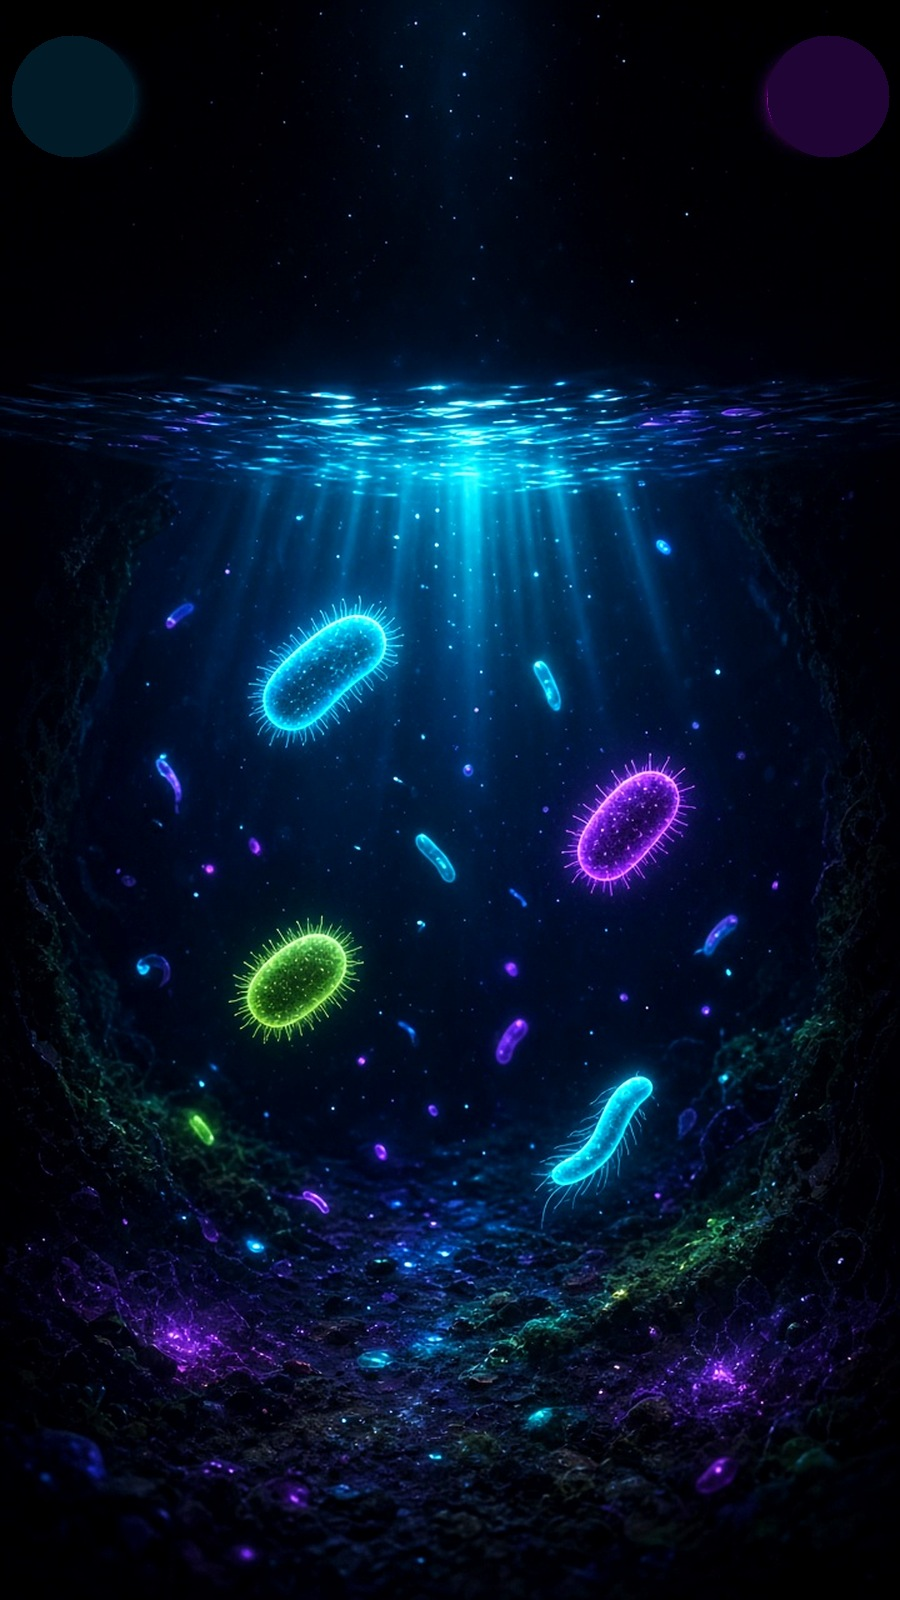
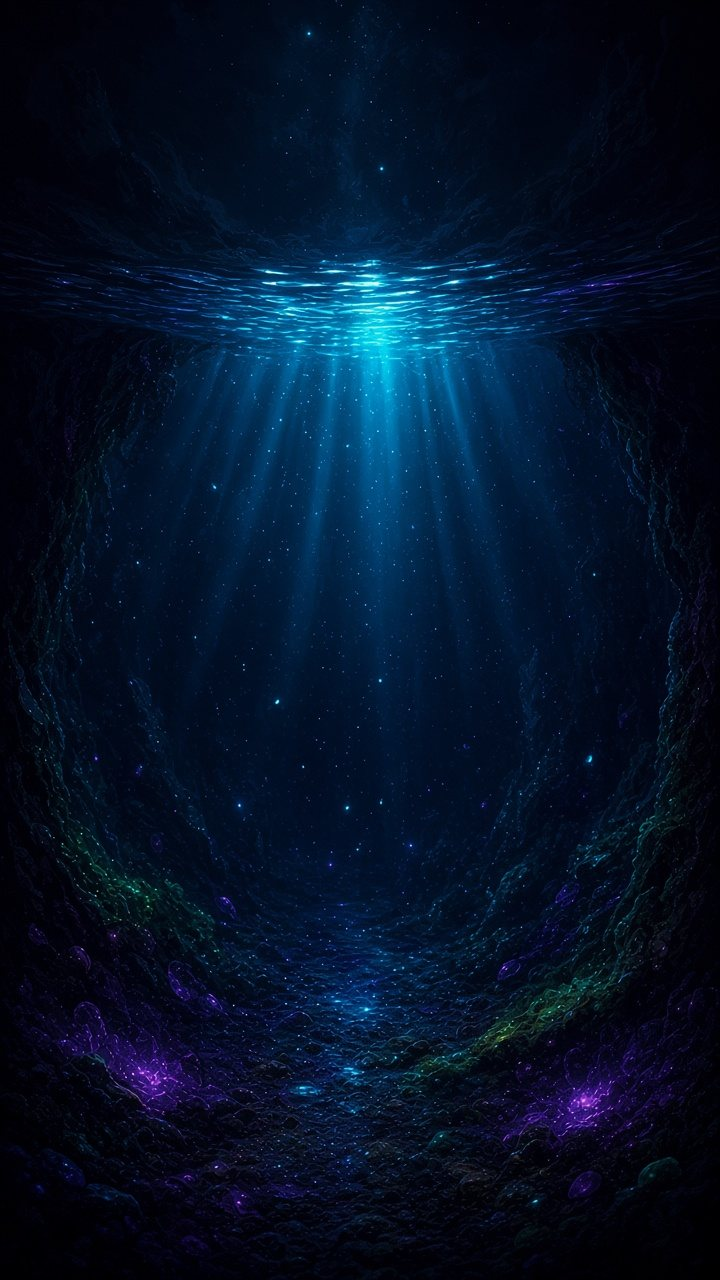
neon-bio v5: clean bg, procedural species creatures, clamped parallax

diff --git a/.04-Src/js/theme_neon_draw.js b/.04-Src/js/theme_neon_draw.js
@@ -1,4 +1,4 @@
-/* theme_neon_draw.js — neon-bio organisms: species PNG + contour glow. ≤500L */
+/* theme_neon_draw.js — neon-bio organisms: procedural body: glow fill, contour, cilia/flagella, speckles. ≤500L */
 (function (w) {
   "use strict";
   var CACHE = {};
@@ -51,119 +51,110 @@
   function neonDrawSz(sz) {
     /* ~2x prior — concept shows 3–5 large neon organisms */
     if (w.demoMode) return Math.max(28, Math.min(52, (sz || 4) * 8));
-    return Math.max(14, Math.min(52, (sz || 4) * 5.8));
+    return Math.max(5, Math.min(40, (sz || 4) * 3.4));
+  }
+  /* shape -> body: rx,ry (rel. to s), kind: cil=cilia fringe, fl=flagella, sp=spiral, dip=pair, ph=phage */
+  function bodyOf(shape) {
+    var m = {
+      rod:[1.15,0.42,"fl"], bacillus:[1.15,0.42,"fl"], clubrod:[1.1,0.45,"fl"], trichormus:[1.3,0.32,"fl"], filament:[1.35,0.28,"fl"],
+      rodtococcus:[0.9,0.5,"fl"], comma:[1.0,0.38,"sp"], vibrio:[1.0,0.38,"sp"], spiral:[1.2,0.3,"sp"], spirillum:[1.2,0.3,"sp"],
+      slipper:[1.1,0.55,"cil"], hypotrich:[1.0,0.6,"cil"], oval:[0.95,0.6,"cil"], rotifer:[0.8,0.55,"cil"], bell:[0.75,0.7,"cil"],
+      flatworm:[1.2,0.45,"cil"], apicomplexa:[1.0,0.45,"fl"], diplococci:[0.42,0.42,"dip"], phage:[0.45,0.38,"ph"],
+      coccus:[0.7,0.7,"cil"], circle:[0.72,0.72,"cil"], cluster:[0.75,0.7,"cil"], colony:[0.8,0.75,"cil"], chain:[1.2,0.35,"fl"],
+      archaea:[0.8,0.6,"fl"], mollicutes:[0.7,0.6,"cil"], irregular:[0.8,0.65,"cil"]
+    };
+    return m[shape] || [0.95, 0.58, "cil"];
+  }
+  function rgba(hex, a) {
+    var h = String(hex).replace("#", ""); if (h.length === 3) h = h[0]+h[0]+h[1]+h[1]+h[2]+h[2];
+    var n = parseInt(h, 16) || 0xffffff; return "rgba(" + (n >> 16 & 255) + "," + (n >> 8 & 255) + "," + (n & 255) + "," + a + ")";
   }
   function bake(shape, color, px) {
-    var key = shape + "|" + color + "|" + px + "|v4";
+    var key = shape + "|" + color + "|" + px + "|v5";
     if (CACHE[key]) return CACHE[key];
     var c = document.createElement("canvas");
     c.width = px; c.height = px;
     var g = c.getContext("2d");
-    var cx = px / 2, cy = px / 2, s = px * 0.28;
-    function faintFill(pathFn) {
-      g.save();
-      g.globalAlpha = 0.28;
-      g.fillStyle = color;
-      g.beginPath(); pathFn(); g.fill();
-      g.restore();
+    var cx = px / 2, cy = px / 2, s = px * 0.26;
+    var b = bodyOf(shape), rx = s * b[0], ry = s * b[1], kind = b[2];
+    var seed = 0; for (var q = 0; q < shape.length; q++) seed = (seed * 31 + shape.charCodeAt(q)) | 0;
+    function rnd() { seed = (seed * 1103515245 + 12345) & 0x7fffffff; return seed / 0x7fffffff; }
+    function bodyPath() {
+      if (kind === "dip") { g.arc(cx - rx * 0.95, cy, rx, 0, 6.2832); g.moveTo(cx + rx * 1.95, cy); g.arc(cx + rx * 0.95, cy, rx, 0, 6.2832); return; }
+      if (kind === "sp") {
+        for (var t = 0; t <= 1.0001; t += 0.04) { var x = cx + (t - 0.5) * rx * 2, y = cy + Math.sin(t * 9.42) * ry * 0.9 - ry * 0.45; t === 0 ? g.moveTo(x, y) : g.lineTo(x, y); }
+        for (var t2 = 1; t2 >= -0.0001; t2 -= 0.04) { g.lineTo(cx + (t2 - 0.5) * rx * 2, cy + Math.sin(t2 * 9.42) * ry * 0.9 + ry * 0.45); }
+        g.closePath(); return;
+      }
+      if (kind === "ph") { g.ellipse(cx, cy - s * 0.4, rx, ry, 0, 0, 6.2832); return; }
+      g.ellipse(cx, cy, rx, ry, 0, 0, 6.2832);
     }
-    function strokeContour(pathFn, lw) {
-      g.save();
-      g.strokeStyle = color; g.shadowColor = color; g.shadowBlur = Math.max(10, px * 0.12);
-      g.lineWidth = lw || 2.2; g.lineJoin = "round"; g.lineCap = "round";
-      g.beginPath(); pathFn(); g.stroke();
-      g.shadowBlur = 0; g.strokeStyle = "#fff"; g.globalAlpha = 0.85; g.lineWidth = Math.max(1, (lw || 2.2) * 0.45);
-      g.beginPath(); pathFn(); g.stroke();
-      g.restore();
-    }
-    function nucleus() {
-      g.save(); g.fillStyle = "#fff"; g.globalAlpha = 0.92; g.shadowBlur = 0;
-      g.beginPath(); g.arc(cx - s * 0.18, cy - s * 0.08, s * 0.11, 0, Math.PI * 2); g.fill();
-      g.beginPath(); g.arc(cx + s * 0.22, cy + s * 0.14, s * 0.08, 0, Math.PI * 2); g.fill();
-      g.restore();
-    }
-    function cilia(rx, ry, n) {
-      g.save(); g.strokeStyle = color; g.globalAlpha = 0.9; g.lineWidth = Math.max(1, px * 0.012);
-      g.shadowColor = color; g.shadowBlur = 4;
-      for (var a = 0; a < Math.PI * 2; a += (Math.PI * 2) / n) {
-        g.beginPath();
-        g.moveTo(cx + Math.cos(a) * rx, cy + Math.sin(a) * ry);
-        g.lineTo(cx + Math.cos(a) * rx * 1.38, cy + Math.sin(a) * ry * 1.38);
+    function edge(a) { return [cx + Math.cos(a) * rx, cy + Math.sin(a) * ry]; }
+    /* 1 translucent glowing fill */
+    g.save(); g.shadowColor = color; g.shadowBlur = px * 0.12;
+    var gr = g.createRadialGradient(cx - rx * 0.2, cy - ry * 0.2, 0, cx, cy, Math.max(rx, ry) * 1.1);
+    gr.addColorStop(0, rgba(color, 0.55)); gr.addColorStop(0.6, rgba(color, 0.3)); gr.addColorStop(1, rgba(color, 0.12));
+    g.fillStyle = gr; g.beginPath(); bodyPath(); g.fill(); g.restore();
+    /* 2 cilia / flagella */
+    g.save(); g.strokeStyle = rgba(color, 0.9); g.shadowColor = color; g.shadowBlur = px * 0.04; g.lineCap = "round";
+    g.lineWidth = Math.max(1, px * 0.011);
+    if (kind === "cil" || kind === "dip") {
+      var n = Math.round(46 * Math.max(rx, ry) / s);
+      for (var i = 0; i < n; i++) {
+        var a = i / n * 6.2832, e0 = edge(a), L = s * (0.16 + rnd() * 0.08), nx = Math.cos(a) * ry, ny = Math.sin(a) * rx, nl = Math.hypot(nx, ny) || 1;
+        if (kind === "dip") { e0 = [cx + (Math.cos(a) > 0 ? rx * 0.95 : -rx * 0.95) + Math.cos(a) * rx, cy + Math.sin(a) * rx]; nx = Math.cos(a); ny = Math.sin(a); nl = 1; }
+        var bend = (rnd() - 0.5) * 0.6;
+        g.beginPath(); g.moveTo(e0[0], e0[1]);
+        g.quadraticCurveTo(e0[0] + nx / nl * L * 0.6 - ny / nl * L * bend, e0[1] + ny / nl * L * 0.6 + nx / nl * L * bend, e0[0] + nx / nl * L, e0[1] + ny / nl * L);
         g.stroke();
       }
-      g.restore();
-    }
-    if (shape === "rod" || shape === "bacillus" || shape === "filament" || shape === "clubrod" || shape === "trichormus") {
-      var rr = function () { g.ellipse(cx, cy, s * 1.15, s * 0.42, 0, 0, Math.PI * 2); };
-      faintFill(rr); strokeContour(rr, 2.2); nucleus();
-      g.save(); g.strokeStyle = color; g.globalAlpha = 0.85; g.lineWidth = 1.3; g.shadowColor = color; g.shadowBlur = 4;
-      for (var i = 0; i < 8; i++) {
-        var yy = cy - s * 0.35 + (i / 7) * s * 0.7;
-        g.beginPath(); g.moveTo(cx - s * 1.15, yy); g.lineTo(cx - s * 1.45, yy); g.stroke();
-        g.beginPath(); g.moveTo(cx + s * 1.15, yy); g.lineTo(cx + s * 1.45, yy); g.stroke();
-      }
-      g.restore();
-    } else if (shape === "spiral" || shape === "spirillum" || shape === "comma" || shape === "vibrio") {
-      g.save(); g.strokeStyle = color; g.shadowColor = color; g.shadowBlur = 8; g.lineWidth = 3.2; g.lineCap = "round";
-      g.beginPath();
-      for (var t = 0; t <= 1.001; t += 0.02) {
-        var xx = cx + (t - 0.5) * s * 2.2;
-        var yy = cy + Math.sin(t * Math.PI * 3) * s * 0.45;
-        if (t === 0) g.moveTo(xx, yy); else g.lineTo(xx, yy);
-      }
-      g.stroke(); g.restore();
-      faintFill(function () { g.ellipse(cx, cy, s * 0.9, s * 0.35, 0, 0, Math.PI * 2); });
-      nucleus();
-    } else if (shape === "phage") {
-      var ph = function () { g.ellipse(cx, cy - s * 0.35, s * 0.45, s * 0.35, 0, 0, Math.PI * 2); };
-      faintFill(ph); strokeContour(ph, 2.2);
-      g.save(); g.strokeStyle = color; g.shadowColor = color; g.shadowBlur = 8; g.lineWidth = 2.2;
-      g.beginPath(); g.moveTo(cx, cy - s * 0.05); g.lineTo(cx, cy + s * 0.7); g.stroke();
-      g.restore();
-    } else if (shape === "diplococci") {
-      var p1 = function () { g.arc(cx - s * 0.4, cy, s * 0.4, 0, Math.PI * 2); };
-      var p2 = function () { g.arc(cx + s * 0.4, cy, s * 0.4, 0, Math.PI * 2); };
-      faintFill(p1); strokeContour(p1, 2.1); faintFill(p2); strokeContour(p2, 2.1); nucleus();
     } else {
-      var pc0 = function () { g.arc(cx, cy, s * 0.72, 0, Math.PI * 2); };
-      faintFill(pc0); strokeContour(pc0, 2.5); cilia(s * 0.74, s * 0.74, 16); nucleus();
+      var nf = kind === "fl" ? 3 : 1; g.lineWidth = Math.max(1.2, px * 0.016);
+      for (var f = 0; f < nf; f++) {
+        var sx = kind === "ph" ? cx : cx + rx * 0.98, sy = kind === "ph" ? cy - s * 0.4 + ry : cy + (f - (nf - 1) / 2) * ry * 0.5;
+        g.beginPath(); g.moveTo(sx, sy);
+        for (var k = 1; k <= 14; k++) {
+          var tt = k / 14;
+          if (kind === "ph") g.lineTo(sx + Math.sin(tt * 12) * s * 0.06, sy + tt * s * 0.9);
+          else g.lineTo(sx + tt * s * 0.95, sy + Math.sin(tt * 9 + f) * s * 0.14 * tt);
+        }
+        g.stroke();
+      }
+      if (kind === "ph") { for (var lg = -1; lg <= 1; lg += 2) { g.beginPath(); g.moveTo(cx, cy - s * 0.4 + ry + s * 0.9); g.lineTo(cx + lg * s * 0.4, cy + s * 0.75); g.stroke(); } }
     }
+    g.restore();
+    /* 3 bright contour + white hot core line */
+    g.save(); g.lineJoin = "round";
+    g.strokeStyle = color; g.shadowColor = color; g.shadowBlur = px * 0.09; g.lineWidth = Math.max(1.6, px * 0.024);
+    g.beginPath(); bodyPath(); g.stroke();
+    g.shadowBlur = 0; g.strokeStyle = "rgba(255,255,255,0.8)"; g.lineWidth = Math.max(0.8, px * 0.008);
+    g.beginPath(); bodyPath(); g.stroke(); g.restore();
+    /* 4 inner speckles + nucleus */
+    g.save(); g.beginPath(); bodyPath(); g.clip();
+    for (var d = 0; d < 26; d++) {
+      var da = rnd() * 6.2832, dr = Math.sqrt(rnd()) * 0.8;
+      var dx = cx + Math.cos(da) * rx * dr * (kind === "dip" ? 2 : 1), dy = cy + Math.sin(da) * ry * dr - (kind === "ph" ? s * 0.4 : 0);
+      g.fillStyle = rnd() < 0.35 ? "rgba(255,255,255,0.9)" : rgba(color, 0.95);
+      g.beginPath(); g.arc(dx, dy, px * (0.006 + rnd() * 0.012), 0, 6.2832); g.fill();
+    }
+    if (kind !== "sp" && kind !== "ph") {
+      g.shadowColor = "#fff"; g.shadowBlur = px * 0.04; g.fillStyle = "rgba(255,255,255,0.85)";
+      g.beginPath(); g.ellipse(cx + rx * 0.1, cy, Math.min(rx, ry) * 0.22, Math.min(rx, ry) * 0.18, 0, 0, 6.2832); g.fill();
+    }
+    g.restore();
     CACHE[key] = c;
-    if (Object.keys(CACHE).length > 64) { var k0 = Object.keys(CACHE)[0]; delete CACHE[k0]; }
+    var ks = Object.keys(CACHE); if (ks.length > 160) delete CACHE[ks[0]];
     return c;
   }
   function drawNeonCell(c, o, sz) {
     var drawSz = neonDrawSz(sz);
-    var shape = shapeOf(o);
-    var color = colOf(o);
-    var idx = spIdx(o);
-    var sp = loadSp(idx);
-    function glowDraw(img, x, y, w, h) {
-      /* contour glow + bright core (FPS-safe: one blur pass) */
-      c.save();
-      c.shadowColor = color;
-      c.shadowBlur = Math.max(8, Math.min(20, drawSz * 0.5));
-      c.globalAlpha = 1;
-      c.drawImage(img, x, y, w, h);
-      c.shadowBlur = 0;
-      c.globalCompositeOperation = "lighter";
-      c.globalAlpha = 0.55;
-      c.drawImage(img, x, y, w, h);
-      c.restore();
-    }
-    if (sp && (sp.naturalWidth || sp.width) > 1) {
-      var iw = sp.naturalWidth || sp.width;
-      var ih = sp.naturalHeight || sp.height;
-      var aspect = iw / Math.max(1, ih);
-      var dw, dh;
-      if (aspect >= 1) { dw = drawSz; dh = drawSz / aspect; }
-      else { dh = drawSz; dw = drawSz * aspect; }
-      glowDraw(sp, -dw / 2, -dh / 2, dw, dh);
-      return;
-    }
-    var px = Math.max(48, Math.min(128, Math.round(drawSz * 10)));
+    var color = colOf(o), shape = shapeOf(o);
+    var px = drawSz > 34 ? 160 : drawSz > 20 ? 112 : 72;
     var spr = bake(shape, color, px);
-    glowDraw(spr, -drawSz, -drawSz, drawSz * 2, drawSz * 2);
+    var k = drawSz * 2.2;
+    c.save(); c.globalAlpha = 0.95;
+    c.drawImage(spr, -k / 2, -k / 2, k, k);
+    c.restore();
   }
   var SPRITE_BASE = "assets/themes/neon-bio/sprites/";
   function wikiThumbSrc(shape) { return SPRITE_BASE + (shape || "circle") + ".png"; }

diff --git a/index.html b/index.html
@@ -212,7 +212,7 @@
 <script src="04-Src/js/render_fx.js?v=1792632100"></script>
 <script src="04-Src/js/render_helpers.js?v=1792632100"></script>
 <script src="04-Src/js/entity_labels.js?v=1792632100"></script>
-  <script src="04-Src/js/render.js?v=1793794500"></script>
+  <script src="04-Src/js/render.js?v=1793794600"></script>
 <script src="04-Src/js/render_membrane.js?v=1792632100"></script>
 <script src="04-Src/js/render_entities.js?v=1792632100"></script>
 <script src="04-Src/js/render_organs.js?v=1792632100"></script>
@@ -224,7 +224,7 @@
 <script src="04-Src/js/ui_food_chain.js?v=1792632100"></script>
 <script src="04-Src/js/theme_analytics.js?v=1793720001"></script>
 <script src="04-Src/js/theme_engine.js?v=1793794500"></script>
-<script src="04-Src/js/theme_neon_draw.js?v=neon14"></script>
+<script src="04-Src/js/theme_neon_draw.js?v=neon16"></script>
 <script src="04-Src/js/theme_visuals.js?v=1793794500"></script>
 <script src="04-Src/js/ui_screens.js?v=1792632100"></script>
 <script src="04-Src/js/main.js?v=1792632100"></script>

diff --git a/.04-Src/js/render.js b/.04-Src/js/render.js
@@ -27,8 +27,9 @@ function render(){
       var _sc=Math.max(_cw/_nb.width,_ch/_nb.height)*1.12;
       var _dw=_nb.width*_sc,_dh=_nb.height*_sc;
       var _pd=(typeof PD==='number'?PD:2000);
-      var _ox=(_cw-_dw)/2 - (cam.x||0)*0.035;
-      var _oy=(_ch-_dh)/2 - ((cam.y||0)-_pd*0.42)*0.02;
+      var _sx=(_dw-_cw)/2,_sy=(_dh-_ch)/2;
+      var _ox=(_cw-_dw)/2 - Math.max(-_sx,Math.min(_sx,(cam.x||0)*0.035));
+      var _oy=(_ch-_dh)/2 - Math.max(-_sy,Math.min(_sy,((cam.y||0)-_pd*0.42)*0.02));
       ctx.drawImage(_nb,_ox,_oy,_dw,_dh);
     } else {
       ctx.fillStyle='#000018'; ctx.fillRect(0,0,cv.width,cv.height);

diff --git a/.04-Src/js/theme_visuals.js b/.04-Src/js/theme_visuals.js
@@ -450,7 +450,7 @@
     if (id === "neon-bio") {
       try {
         if (typeof settings !== "undefined" && settings) { settings.renderMode = "swiss"; w._swissStrict = true; }
-        bedState("neon-bio-v6", "assets/themes/neon-bio/neon_pond_bg.jpg?v=6");
+        bedState("neon-bio-v7", "assets/themes/neon-bio/neon_pond_bg.jpg?v=7");
       } catch (eSw) {}
     }
   }

diff --git a/01-Architecture/03-Analysis/LEAD-LOG-v29.md b/01-Architecture/03-Analysis/LEAD-LOG-v29.md
@@ -190,3 +190,10 @@ Fix:
 
 Metrics: Pop invariant Δ3 PASS (297/300). FPS neon 60 ≥ classic 57 @1400; 60/60 @375. JS visuals 474 / neon_draw 171 / engine 52. Shots `/workspace/v29neon/*_v4.jpg`. Honest eye ~88% vs concept (same cave). No deploy.
 
+
+## v5 neon-bio (2026-11-04)
+- neon_pond_bg.jpg → CLEAN owner background (720×1280, q84, 127KB); concept-baked v4 bg archived to .10-Archive/neon-bg-concept-baked-2026-11-04/. Concept images are never used as game backgrounds.
+- theme_neon_draw.js: procedural species bodies (translucent glowing fill, bright contour, cilia/flagella/phage tail, inner speckles + nucleus); no oval rings, no species PNGs.
+- render.js: cover background with clamped parallax (no uncovered edge when camera is far off-centre).
+- Tests: pop invariant PASS; FPS neon 60.2 ≈ classic 60.2 @375; JS: render 230 / theme_visuals 474 / theme_neon_draw 162.
+- Shots: /workspace/v29neon/*_v5.jpg + side_*_v5.jpg.
